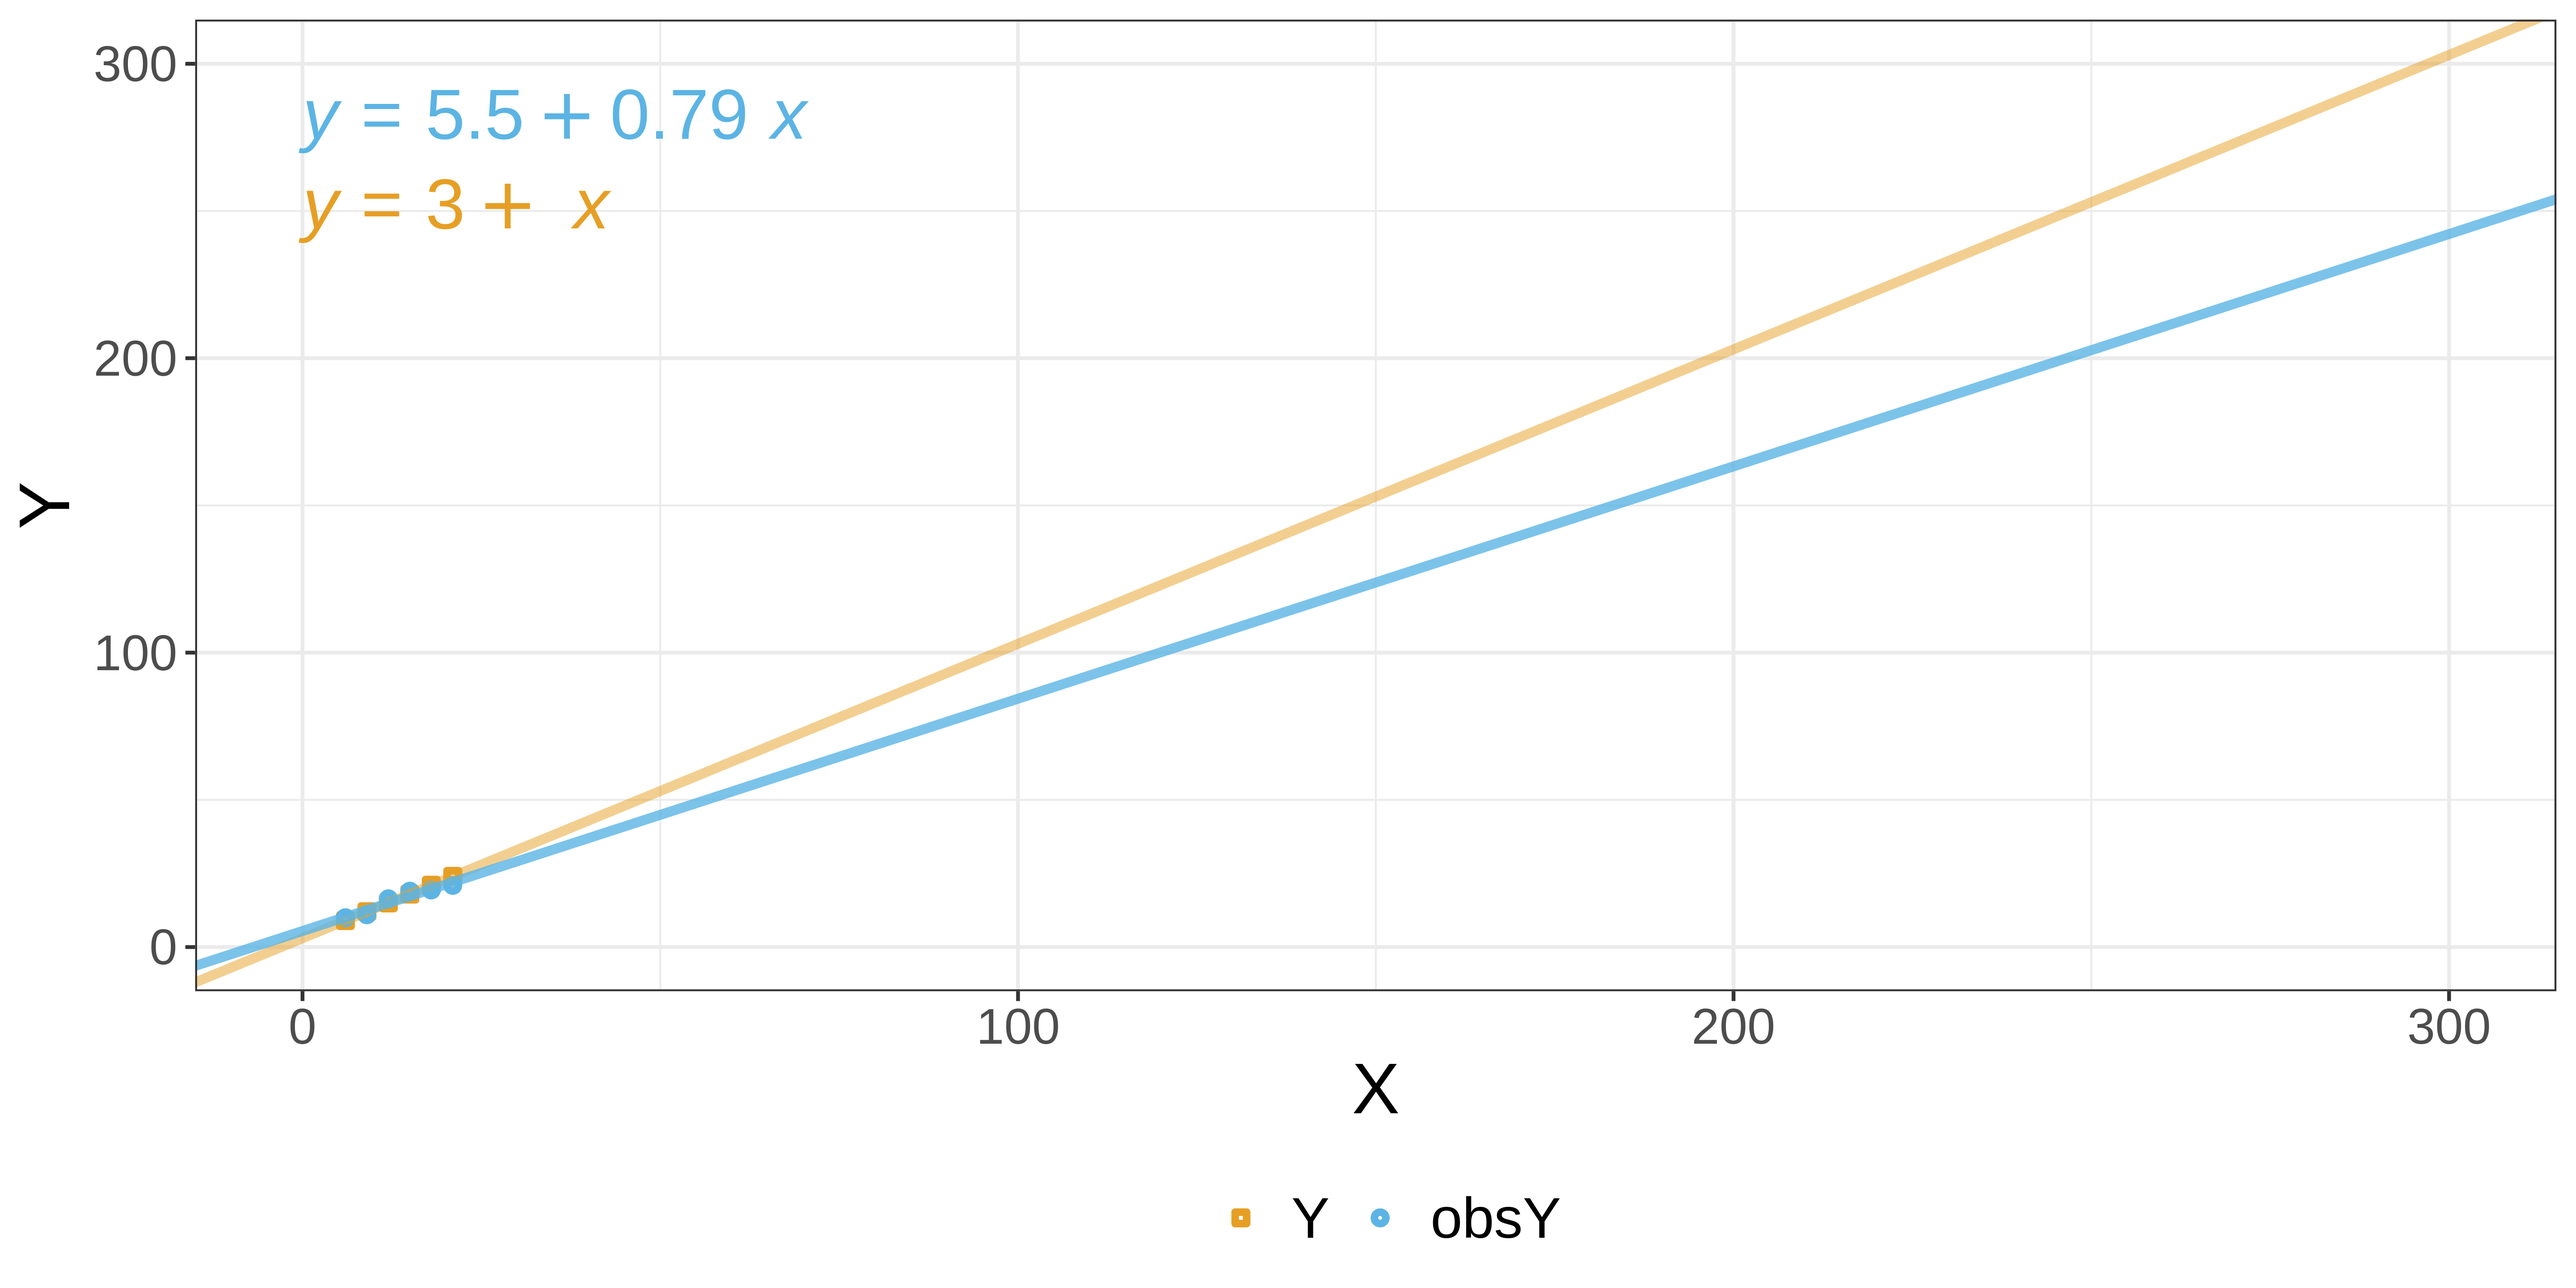
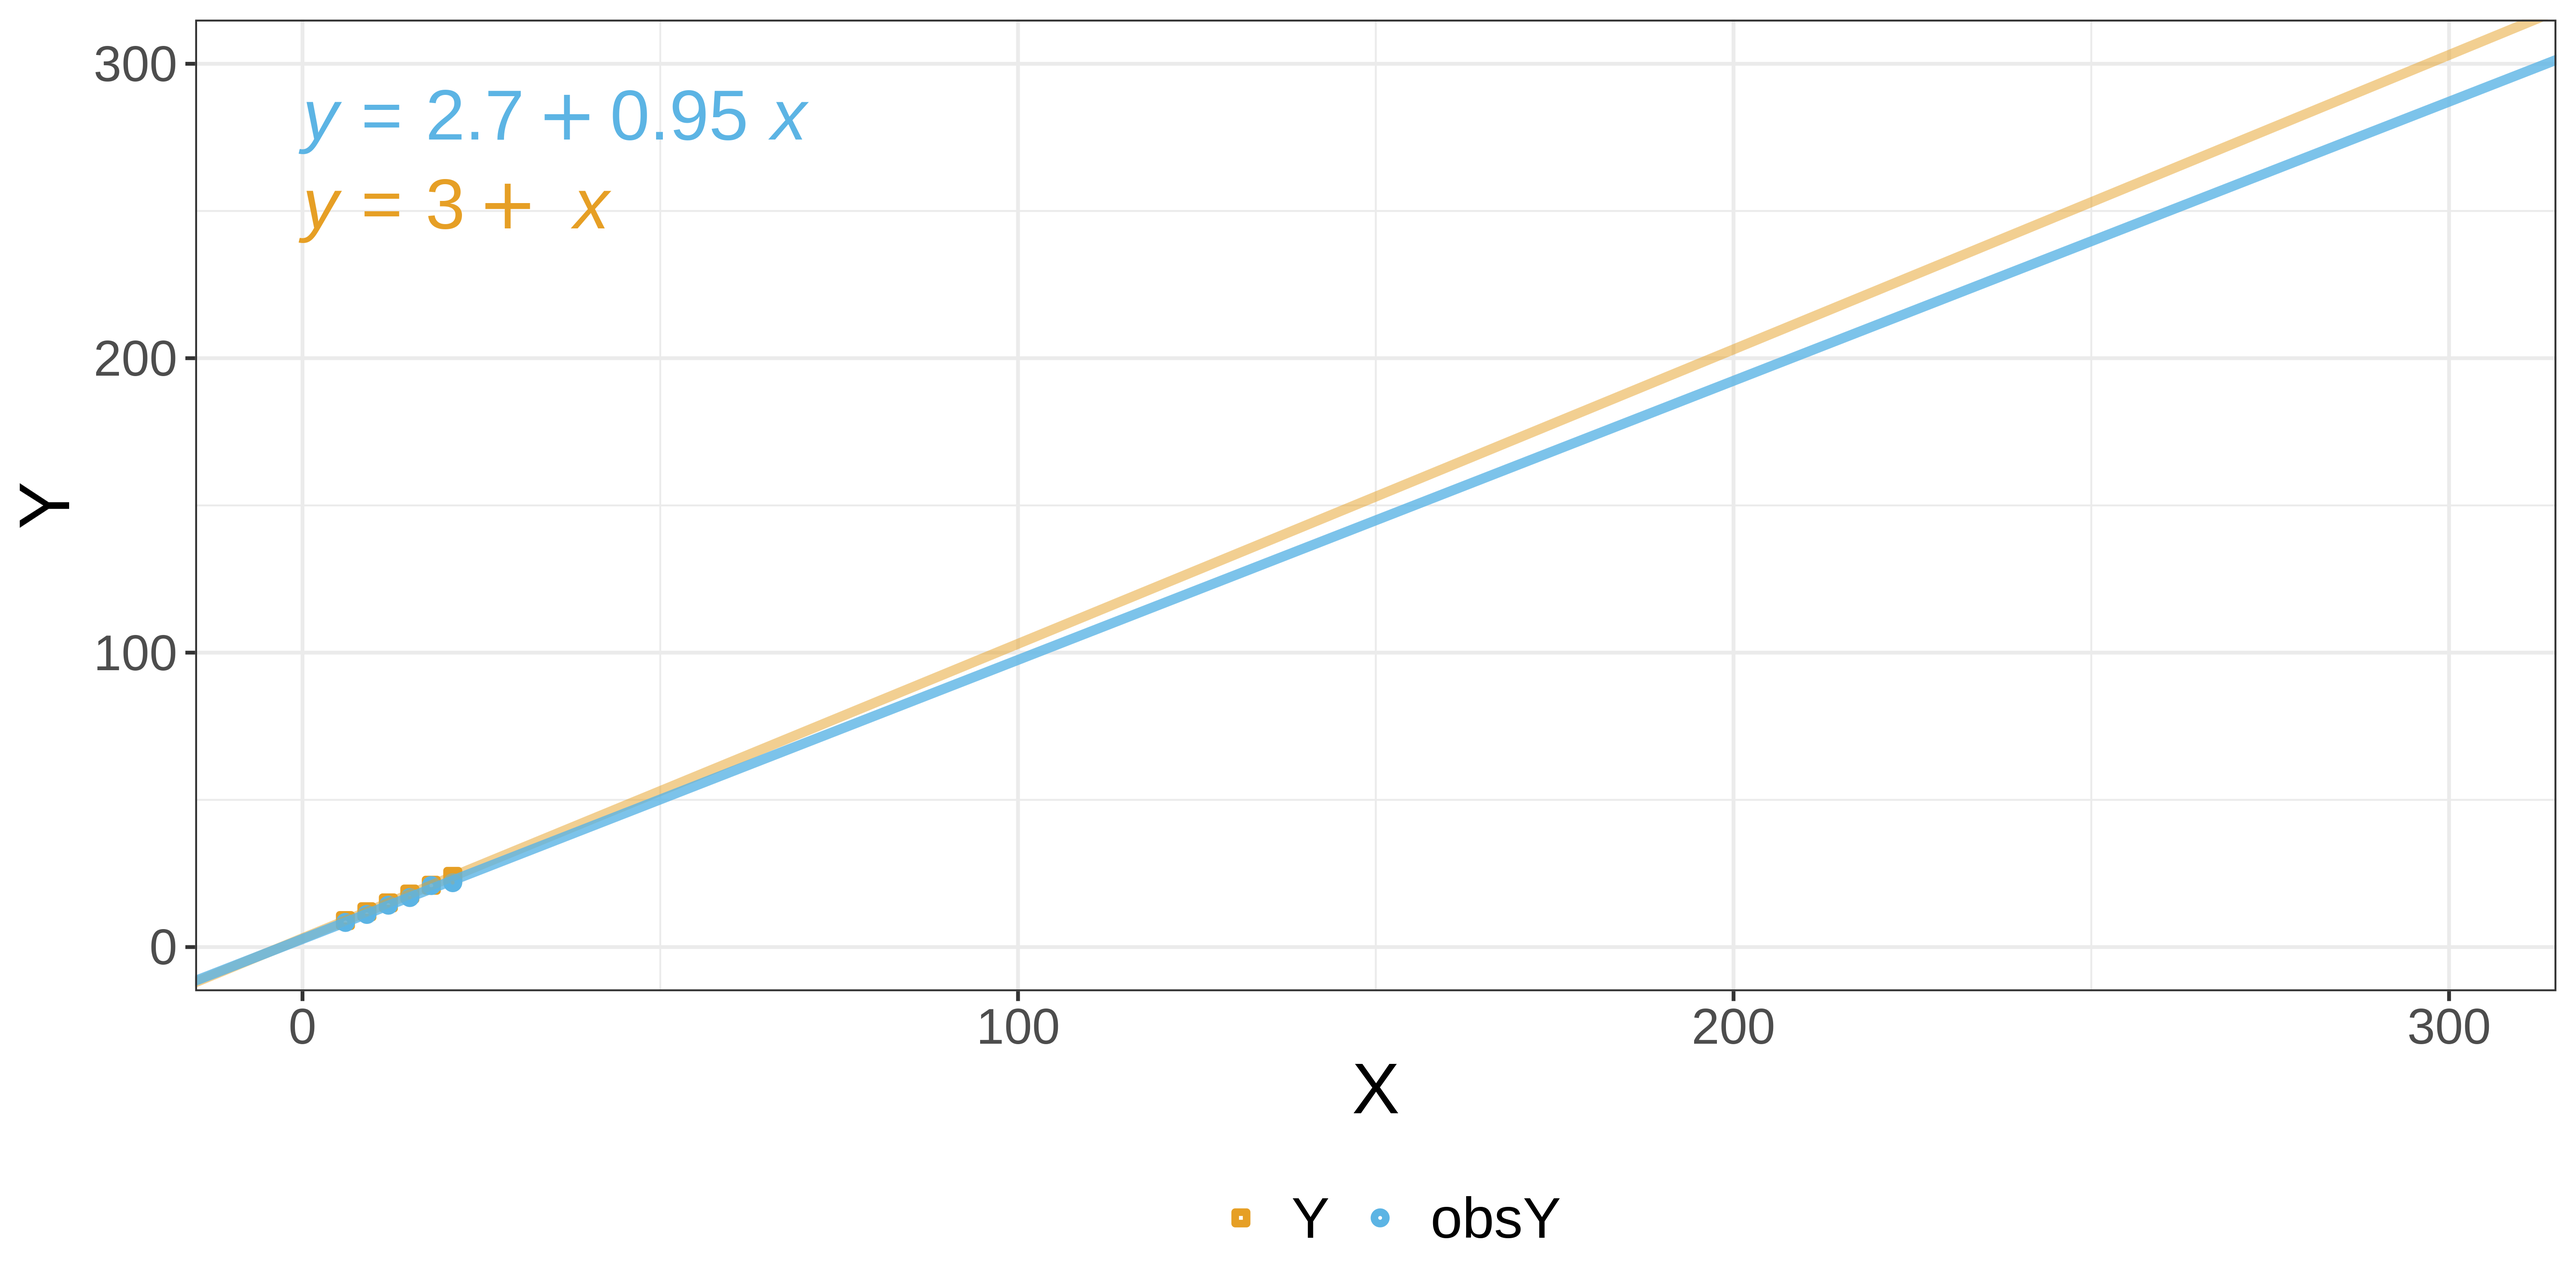
Built site for gh-pages

diff --git a/slides/week01_slides_part2.html b/slides/week01_slides_part2.html
@@ -1084,12 +1084,12 @@ communicate-&gt;end
 <pre><code># A tibble: 6 × 3
       X     Y  obsY
   &lt;int&gt; &lt;int&gt; &lt;dbl&gt;
-1     6     9  9.96
-2     9    12 11.0 
-3    12    15 16.4 
-4    15    18 19.0 
-5    18    21 19.4 
-6    21    24 21.0 </code></pre>
+1     6     9  8.36
+2     9    12 11.1 
+3    12    15 14.2 
+4    15    18 16.8 
+5    18    21 20.9 
+6    21    24 21.9 </code></pre>
 </div>
 </div>
 </section>
@@ -1142,14 +1142,14 @@ communicate-&gt;end
 <div class="cell fragment">
 <div class="cell-output cell-output-stdout">
 <pre><code># A tibble: 6 × 5
-      X     Y  obsY  error absError
-  &lt;int&gt; &lt;int&gt; &lt;dbl&gt;  &lt;dbl&gt;    &lt;dbl&gt;
-1     6     9  9.96 -0.959    0.959
-2     9    12 11.0   1.03     1.03 
-3    12    15 16.4  -1.39     1.39 
-4    15    18 19.0  -0.957    0.957
-5    18    21 19.4   1.61     1.61 
-6    21    24 21.0   3.04     3.04 </code></pre>
+      X     Y  obsY error absError
+  &lt;int&gt; &lt;int&gt; &lt;dbl&gt; &lt;dbl&gt;    &lt;dbl&gt;
+1     6     9  8.36 0.639    0.639
+2     9    12 11.1  0.918    0.918
+3    12    15 14.2  0.784    0.784
+4    15    18 16.8  1.18     1.18 
+5    18    21 20.9  0.109    0.109
+6    21    24 21.9  2.14     2.14 </code></pre>
 </div>
 </div>
 <div class="fragment">
@@ -1157,7 +1157,7 @@ communicate-&gt;end
 <div class="cell" data-output-location="fragment">
 <div class="sourceCode cell-code" id="cb7"><pre class="sourceCode numberSource r code-overflow-wrap number-lines code-with-copy"><code class="sourceCode r"><span id="cb7-1"><a href="#cb7-1"></a><span class="fu">mean</span>(df<span class="sc">$</span>absError)</span></code><button title="Copy to Clipboard" class="code-copy-button"><i class="bi"></i></button></pre></div>
 <div class="cell-output cell-output-stdout">
-<pre><code>[1] 1.496301</code></pre>
+<pre><code>[1] 0.961874</code></pre>
 </div>
 </div>
 </div>
